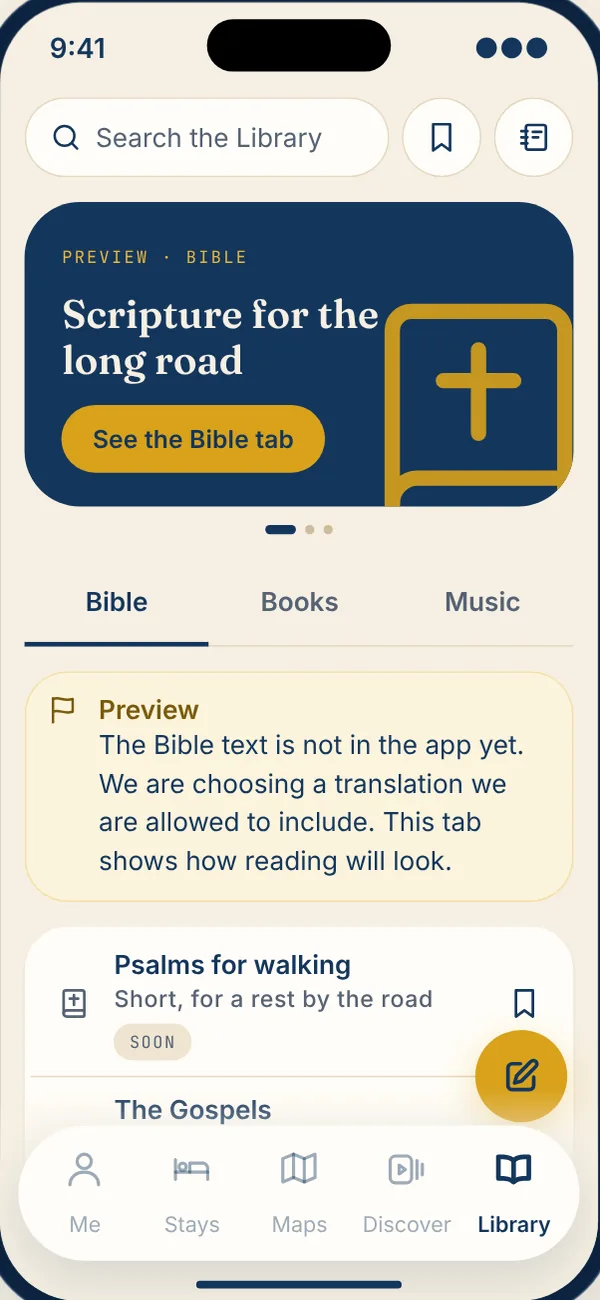
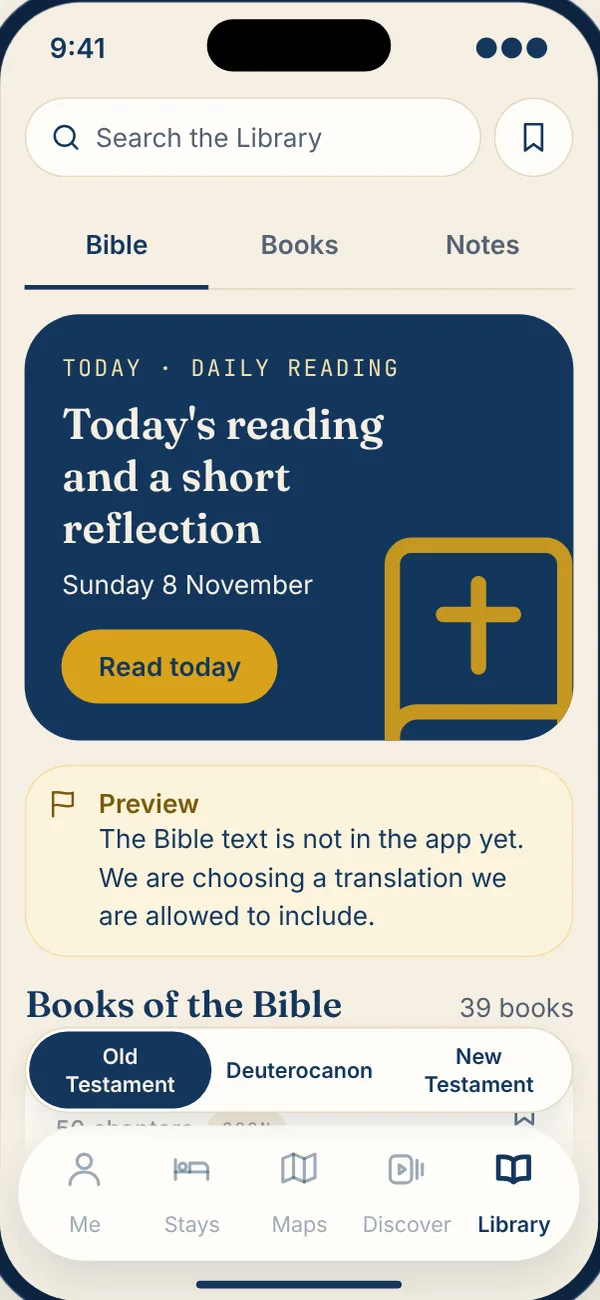
WIP checkpoint: Library tabs: web smoke scenarios, the website text and picture, the shorter notices
Web smoke: the Library scenarios now walk the new screen (tab order under the search row, the banner of each tab, the gold pen on Notes
only, the three choices at the bottom of Bible, the banner opening /library/daily, search over Bible and Books, Bookmarks with both groups,
bookmarks kept before the change ignored). The site says "books and notes" instead of "books and music" and its Library picture is the
new Bible phone. The notices of Bible and Books are one sentence shorter so the heading is not cut by the bar on a 844 high phone.

Claude-Session: https://claude.ai/code/session_01Nqpq6SZ55VfnVqdosYhF6n

diff --git a/web/features.html b/web/features.html
@@ -82,12 +82,12 @@
       <ul class="ticks"><li>Full-screen photo and video stories, swipe left and right</li><li>Topic tabs at the top for the kind of stories you want</li><li>Photos of you: buy shots other pilgrims took of you on the way <span class="tag gold">Coming later</span></li></ul>
     </div>
   </article><article class="feature" id="library">
-    <div class="feature-media"><div class="shot"><img src="/assets/screens/library.webp" width="600" height="1300" alt="Library tab with a search field and the bookmarks and diary buttons on top, then the banner and the Bible tab" loading="lazy" decoding="async"></div><div class="shot"><img src="/assets/screens/diary-read.webp" width="600" height="1300" alt="A diary page with a heading, bold and italic text, a list, a quote, photos, a video and the place" loading="lazy" decoding="async"></div></div>
+    <div class="feature-media"><div class="shot"><img src="/assets/screens/library.webp" width="600" height="1300" alt="Library tab with a search field and a bookmarks button on top, the tabs Bible, Books and Notes, the banner for the daily reading, and the three parts of the Bible at the bottom" loading="lazy" decoding="async"></div><div class="shot"><img src="/assets/screens/diary-read.webp" width="600" height="1300" alt="A diary page with a heading, bold and italic text, a list, a quote, photos, a video and the place" loading="lazy" decoding="async"></div></div>
     <div class="feature-copy">
       <span class="tab-pill"><svg viewBox="0 0 24 24" fill="none" stroke="currentColor" stroke-width="1.75" stroke-linecap="round" stroke-linejoin="round" aria-hidden="true"><path d="M12 7.5C10.7 6.3 8.7 5.5 6.2 5.5H3.5v12h2.7c2.5 0 4.5.8 5.8 2 1.3-1.2 3.3-2 5.8-2h2.7v-12h-2.7c-2.5 0-4.5.8-5.8 2Z"/><path d="M12 7.5v12"/></svg>Library</span>
-      <h2>Scripture, books and music for the road.</h2>
-      <p class="lead">A search field, your bookmarks and your private diary along the top, then a banner and three tabs: Bible, Books and Music. We are still choosing which Bible translation, which books and which music we are allowed to include, so those tabs show examples today and say so.</p>
-      <ul class="ticks"><li>Bible, Books and Music, one tab each <span class="tag gold">Coming</span></li><li>Search all three tabs at once and bookmark what you find. Today the search looks through the examples <span class="tag gold">Coming</span></li><li>Bookmarks also keep the posts you bookmark on your journey</li><li>A private diary: tap the diary button, or the gold button to write, and the page is saved on your phone as you type. Make words bold or italic, add headings and lists, and attach photos, videos and the place you are at</li><li>Nothing in the diary is uploaded or shared, so it is not backed up either. It works without a signal and stays on your phone when you log out</li></ul>
+      <h2>Scripture, books and notes for the road.</h2>
+      <p class="lead">A search field and your bookmarks along the top, then three tabs: Bible, Books and Notes. The Bible tab opens with a banner for the daily reading and lists the books of the Bible in three parts: Old Testament, Deuterocanon and New Testament. The Books tab lists twelve free classics for the road. We are still choosing which Bible translation and which editions we are allowed to include, so those two tabs show examples today and say so. Notes is your private diary.</p>
+      <ul class="ticks"><li>Bible and Books, one tab each, with the books of the Bible in three parts and twelve free classics <span class="tag gold">Coming</span></li><li>Search the Bible and the Books at once and bookmark what you find. Today the search looks through the examples <span class="tag gold">Coming</span></li><li>Bookmarks also keep the posts you bookmark on your journey</li><li>Notes is a private diary: tap the gold button to write, and the page is saved on your phone as you type. Make words bold or italic, add headings and lists, and attach photos, videos and the place you are at</li><li>Nothing in the diary is uploaded or shared, so it is not backed up either. It works without a signal and stays on your phone when you log out</li></ul>
     </div>
   </article>
   <p class="muted" style="margin-top:8px;font-size:15px">The screens are previews rendered from our app design. The app is still in development, so details can change before launch.</p>

diff --git a/web/index.html b/web/index.html
@@ -89,7 +89,7 @@
       <a href="/features#discover" style="font-weight:600">See Discover →</a>
     </article><article class="card pad-lg stack">
       <span class="ic"><svg viewBox="0 0 24 24" fill="none" stroke="currentColor" stroke-width="1.75" stroke-linecap="round" stroke-linejoin="round" aria-hidden="true"><path d="M12 7.5C10.7 6.3 8.7 5.5 6.2 5.5H3.5v12h2.7c2.5 0 4.5.8 5.8 2 1.3-1.2 3.3-2 5.8-2h2.7v-12h-2.7c-2.5 0-4.5.8-5.8 2Z"/><path d="M12 7.5v12"/></svg></span>
-      <h3>Library</h3><p class="muted">Scripture, books and music for the road.</p>
+      <h3>Library</h3><p class="muted">Scripture, books and notes for the road.</p>
       <a href="/features#library" style="font-weight:600">See Library →</a>
     </article>
     <article class="card pad-lg stack" style="background:var(--cp-color-gold-wash);border-color:var(--cp-color-gold-soft)">

diff --git a/tools/build_web.py b/tools/build_web.py
@@ -281,14 +281,14 @@ TABS = [
    "Topic tabs at the top for the kind of stories you want",
    "Photos of you: buy shots other pilgrims took of you on the way <span class=\"tag gold\">Coming later</span>"],
   [("discover", "Discover full-screen stories"), ("discover-photos", "Photos of you marketplace")]),
- ("library", "book", "Library", "Scripture, books and music for the road.",
-  "A search field, your bookmarks and your private diary along the top, then a banner and three tabs: Bible, Books and Music. We are still choosing which Bible translation, which books and which music we are allowed to include, so those tabs show examples today and say so.",
-  [f"Bible, Books and Music, one tab each {COMING}",
-   f"Search all three tabs at once and bookmark what you find. Today the search looks through the examples {COMING}",
+ ("library", "book", "Library", "Scripture, books and notes for the road.",
+  "A search field and your bookmarks along the top, then three tabs: Bible, Books and Notes. The Bible tab opens with a banner for the daily reading and lists the books of the Bible in three parts: Old Testament, Deuterocanon and New Testament. The Books tab lists twelve free classics for the road. We are still choosing which Bible translation and which editions we are allowed to include, so those two tabs show examples today and say so. Notes is your private diary.",
+  [f"Bible and Books, one tab each, with the books of the Bible in three parts and twelve free classics {COMING}",
+   f"Search the Bible and the Books at once and bookmark what you find. Today the search looks through the examples {COMING}",
    "Bookmarks also keep the posts you bookmark on your journey",
-   "A private diary: tap the diary button, or the gold button to write, and the page is saved on your phone as you type. Make words bold or italic, add headings and lists, and attach photos, videos and the place you are at",
+   "Notes is a private diary: tap the gold button to write, and the page is saved on your phone as you type. Make words bold or italic, add headings and lists, and attach photos, videos and the place you are at",
    "Nothing in the diary is uploaded or shared, so it is not backed up either. It works without a signal and stays on your phone when you log out"],
-  [("library", "Library tab with a search field and the bookmarks and diary buttons on top, then the banner and the Bible tab"), ("diary-read", "A diary page with a heading, bold and italic text, a list, a quote, photos, a video and the place")]),
+  [("library", "Library tab with a search field and a bookmarks button on top, the tabs Bible, Books and Notes, the banner for the daily reading, and the three parts of the Bible at the bottom"), ("diary-read", "A diary page with a heading, bold and italic text, a list, a quote, photos, a video and the place")]),
 ]
 
 # The routes of the route picker, in the order of the database (supabase/migrations/..._more_caminos.sql).

diff --git a/tools/web-smoke/README.md b/tools/web-smoke/README.md
@@ -37,18 +37,23 @@ Then the **scenarios** ([scenarios.mjs](scenarios.mjs)), each in light and dark,
 - the tab bar shows Me, Stays, Maps, Discover and Library, and each tab opens;
 - the gear on Me opens `/settings` (no tab bar there) and Back returns to `/me`, also when Settings was opened from a link;
 - switching light/dark on Settings returns to Settings, and Back goes to Me;
-- Library shows a banner and the Bible, Books and Music tabs; the gold pen opens `/diary/new`; its top row is a search field, the Bookmarks
-  button and the diary button (no title, no diary card): the diary button opens `/diary`, a search lists what it finds from all three tabs
-  grouped by tab (and says "Nothing found for ..." with a way back), and the Bookmarks button opens `/library/bookmarks` with the
-  bookmarked row and post (the full account has one bookmarked post);
+- Library: its top row is a search field and the Bookmarks button (no title, no diary button); directly under it, before any banner, the tabs
+  Bible, Books and Notes, in that order; Bible and Books each have a banner and a Preview notice, Notes has neither; the Books tab lists twelve
+  books marked Free and Soon and shows nothing that is only data (links, licence notes, groups); the gold pen shows only on Notes and opens
+  `/diary/new`; the three choices at the bottom of Bible (Old Testament, Deuterocanon, New Testament) float above the tab bar, list that
+  part with its count, and are gone on Books, on Notes and while something is typed in the search; the banner of the Bible tab (the whole card
+  and its "Read today" button) opens `/library/daily`; a search lists what it finds in Bible and Books grouped by tab (and says "Nothing found
+  for ..." with a way back); the Bookmarks button opens `/library/bookmarks` with the bookmarked rows of both tabs and the bookmarked post (the
+  full account has one bookmarked post); bookmarks kept before the tabs changed (a Music row, the old example rows) are ignored without an
+  error;
 - Stays lists the stays of the stage and one opens with its details;
 - logging out from Settings lands on Welcome;
 - launching the app lands on Welcome (signed out), Onboarding (signed in, no journey) or Me;
 - with an expired login the session is renewed online; offline the account saved on the phone opens on Me and says it is offline,
   and with an expired login (also with nothing saved: "No signal right now") the app does not wait for the network.
 
-The diary screens are placeholders while that feature is built: they are only swept (they must load without errors) and the pen
-only checks where it goes, never what those screens contain.
+The diary screens, the Notes tab and the daily reading belong to their own features: they are swept (they must load without errors), and
+the Library scenarios only check where the pen and the banner lead and that Notes has no banner, never what those screens contain.
 
 ### Routes and account states come from the source
 
